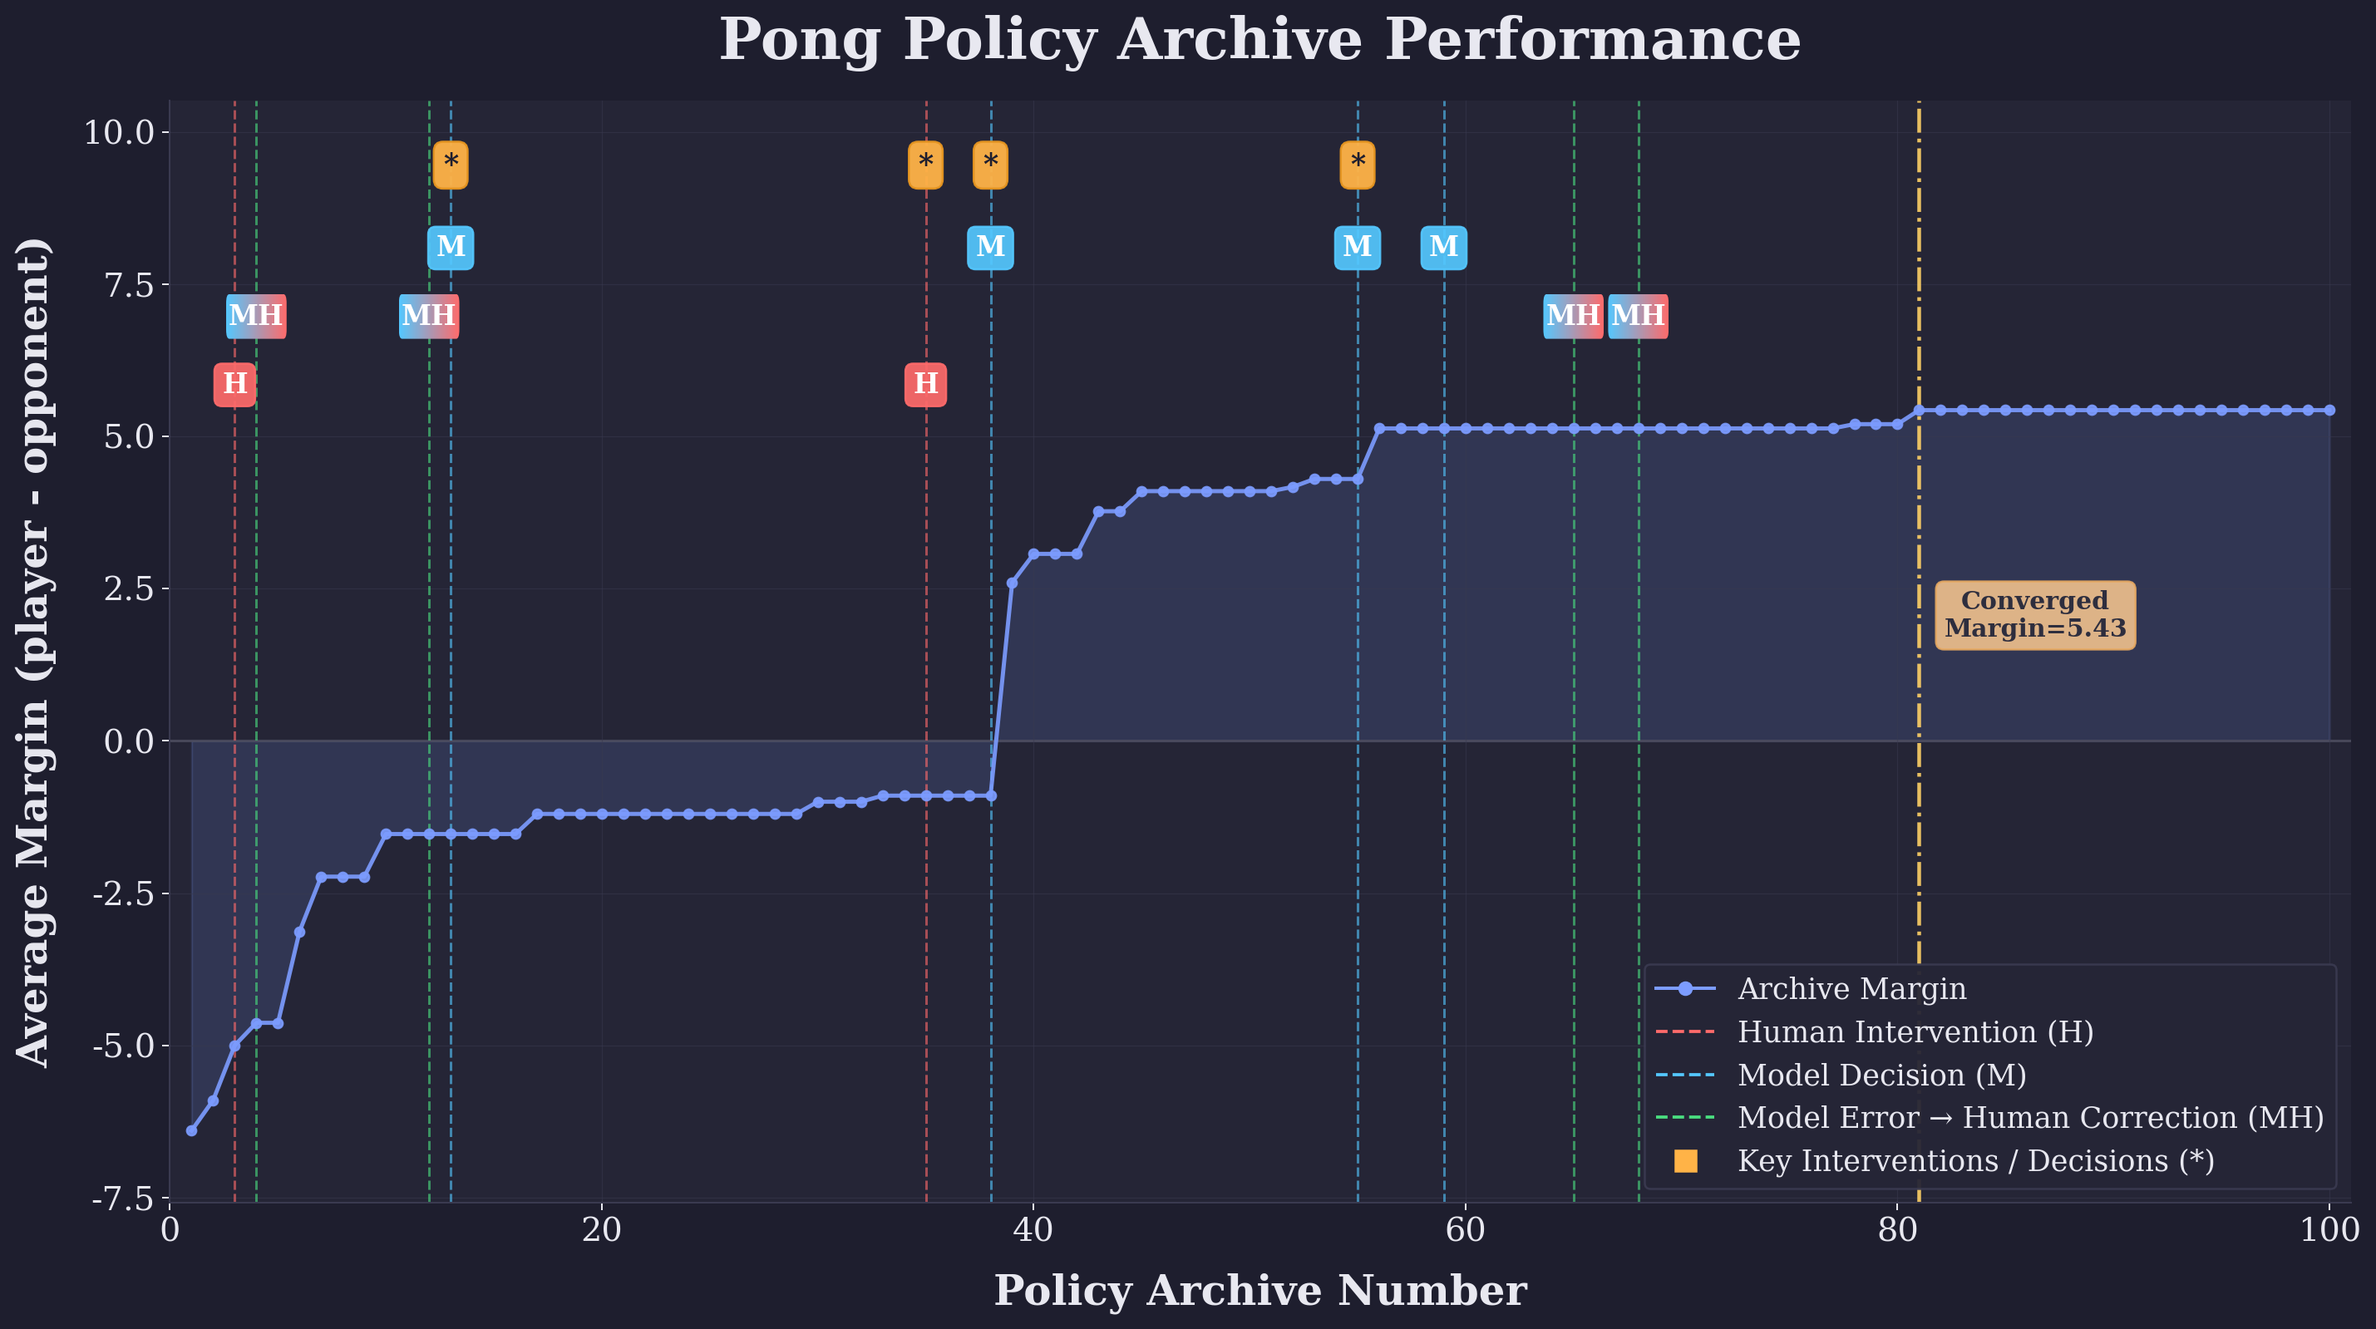
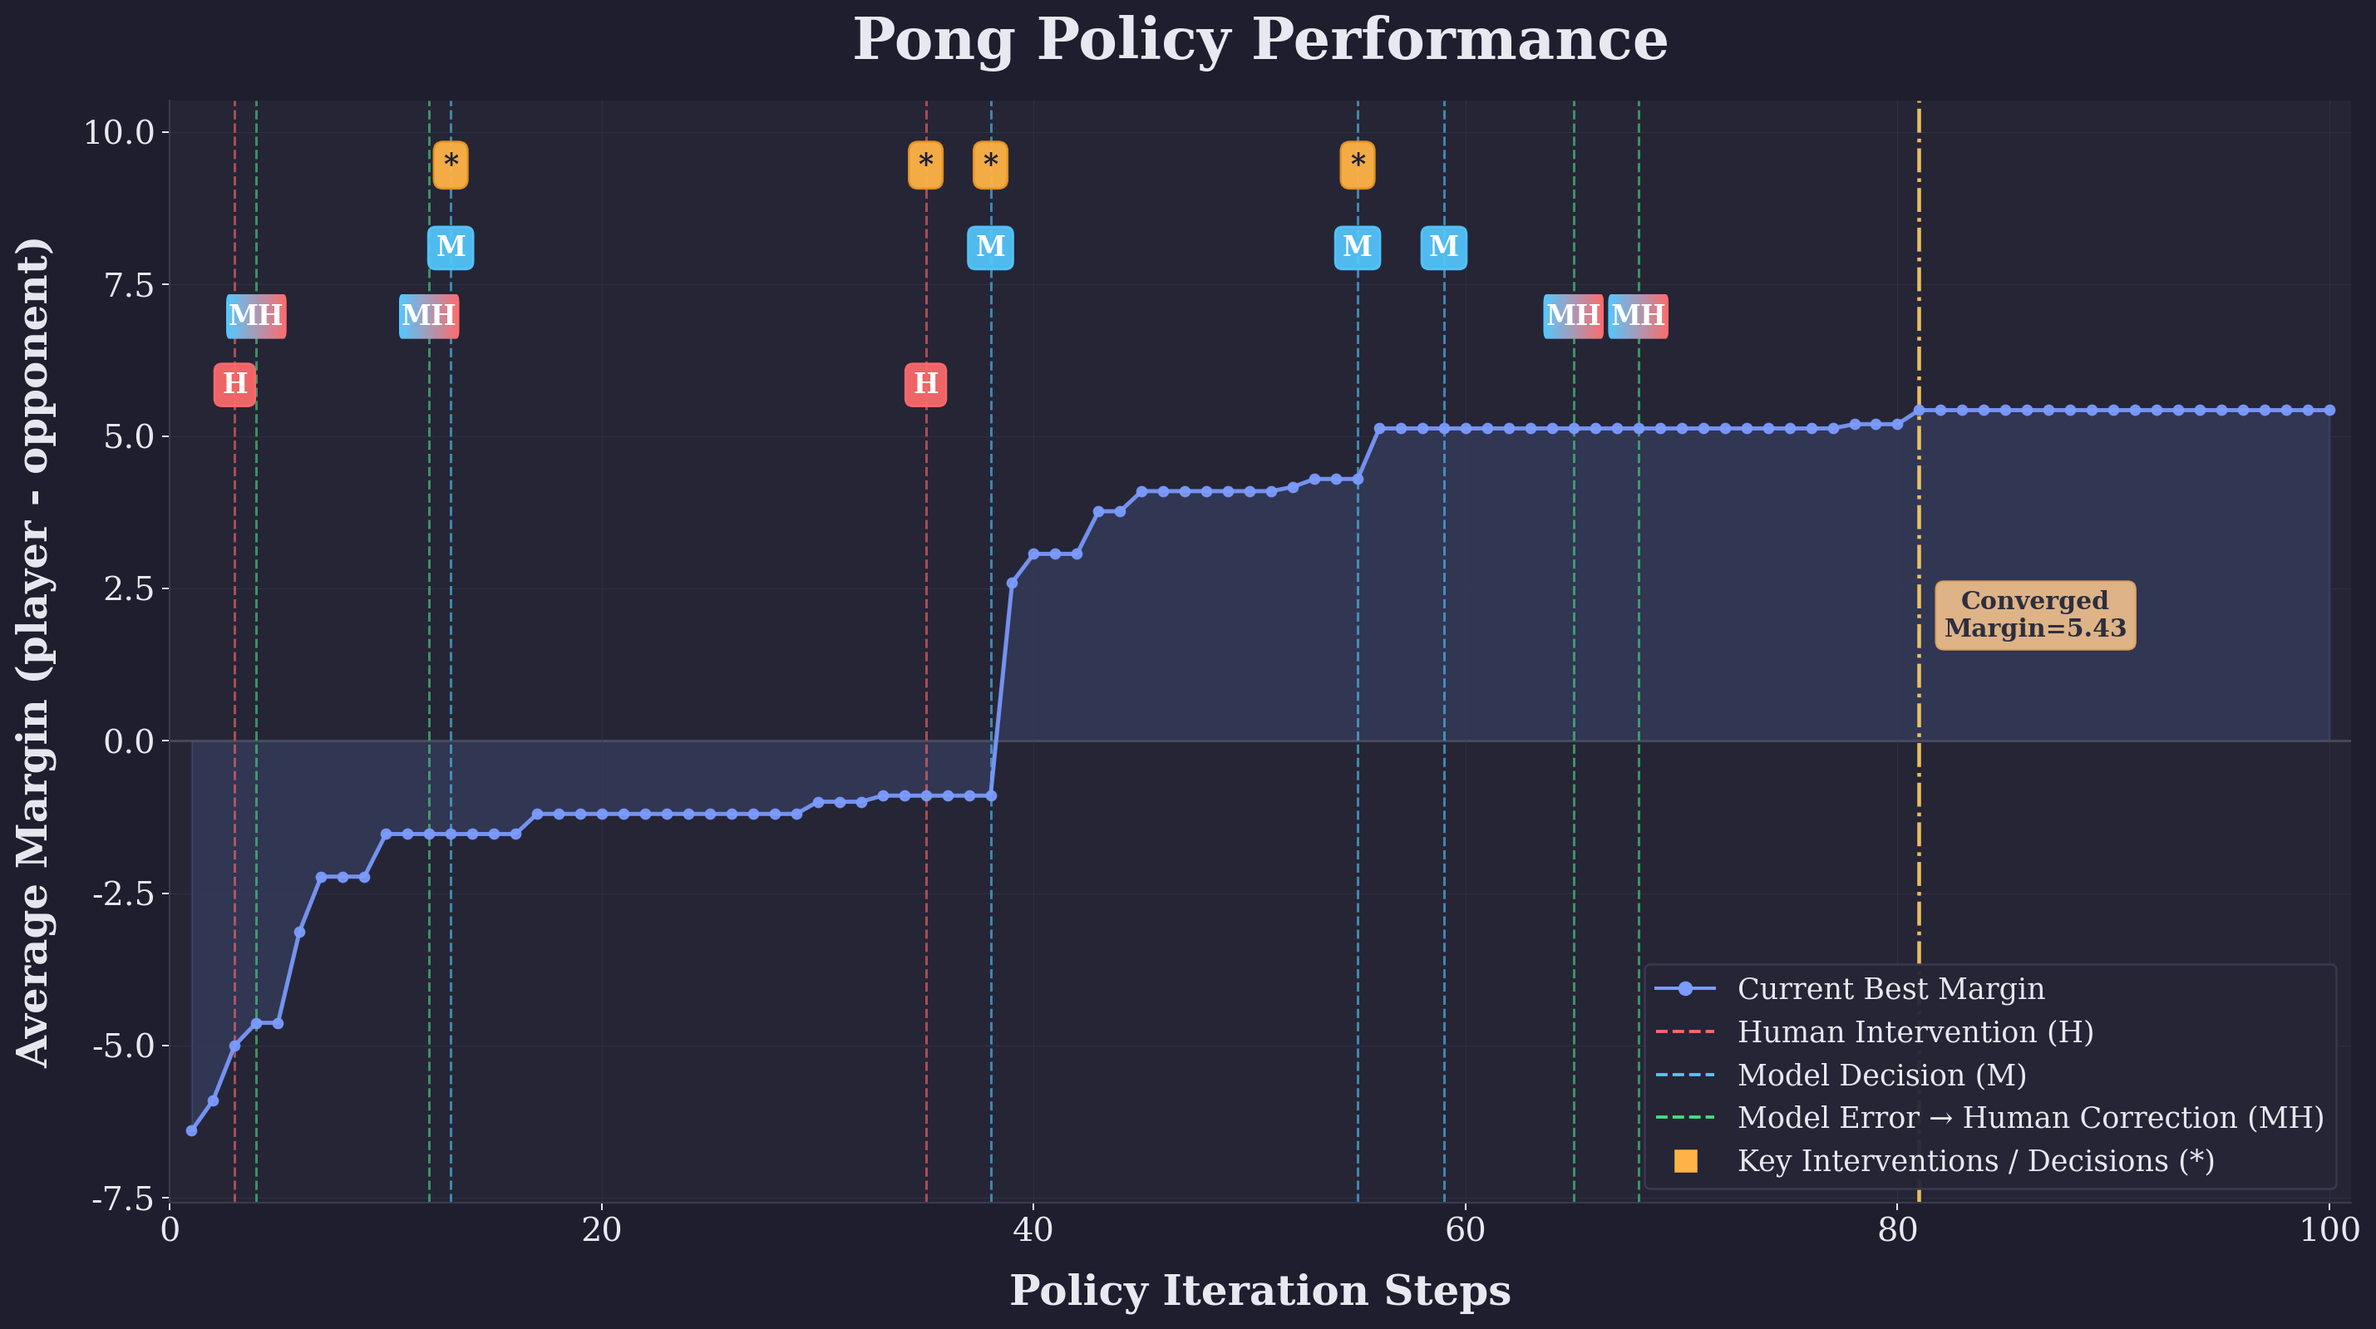
modify expressions

Changed region(s): [[0.2803, 0.0, 0.7474, 0.0613], [0.4048, 0.95, 0.654, 0.9806], [0.7162, 0.7355, 0.8719, 0.7661]]

diff --git a/plot_policy_archive.py b/plot_policy_archive.py
@@ -234,7 +234,7 @@ def write_plot(rows, output_png, events):
         markeredgecolor=curve_color,
         markerfacecolor=curve_color,
         alpha=0.9,
-        label="Archive Margin",
+        label="Current Best Margin",
         zorder=3,
     )
 
@@ -376,7 +376,7 @@ def write_plot(rows, output_png, events):
     ax.set_ylim(y_min - y_span * 0.10, y_max + y_span * 0.43)
 
     ax.set_xlabel(
-        "Policy Archive Number",
+        "Policy Iteration Steps",
         labelpad=12,
         fontweight="bold",
     )
@@ -386,7 +386,7 @@ def write_plot(rows, output_png, events):
         fontweight="bold",
     )
     ax.set_title(
-        "Pong Policy Archive Performance",
+        "Pong Policy Performance",
         pad=20,
         fontweight="bold",
     )
@@ -404,7 +404,7 @@ def write_plot(rows, output_png, events):
             marker="o",
             markersize=6,
             linewidth=1.6,
-            label="Archive Margin",
+            label="Current Best Margin",
         ),
         Line2D(
             [0],

diff --git a/docs/REPORT.md b/docs/REPORT.md
@@ -1,41 +1,41 @@
-# Heuristic Learning
+# Heuristic Learning Report
 
-English | [中文](REPORT_zh.md)
+[English](REPORT.md) | Chinese
 
 ## Optimization History
-
-- Turn 0: I asked the model to run about 3 iterations to check whether it could proceed normally.
-- Turn 3: I requested another 3 iterations to further test whether the model could keep working normally.
-- Turn 4: The model became blocked during optimization and wanted to run a large parameter search. I stopped it and asked for substantive changes instead of only parameter changes.
-- Turn 12: After repeated failures, the model started to stop early on its own. I restarted it and required it to keep iterating unless I manually ended the process.
-- Turn 13: The model automatically recognized the situation and entered `/goal` mode.
-- Turn 35: Because multiple rounds were stuck around -1.00 to -0.90, I asked the model to search in much broader directions. This pivot was successful.
-- Turn 38: The model identified missing paddle-velocity information by itself and added it to the state. This later produced a large improvement.
-- Turn 55: The model noticed that only one game was still being lost, expanded the analysis scope by itself, and first inspected the final failure before deciding whether to keep adjusting.
-- Turn 59: The model read all game traces, reasoned about the true failure points, and found that they were hard to summarize as one simple pattern.
-- Turn 65: The model tried to handle special game indices, which was similar to hacking and unreasonable, so I rejected it. At the same time, it was drifting back toward parameter tuning, which seems to happen near context-length pressure.
-- Turn 68: The model kept trying to modify the state to seek more information, but that information was not useful, so I stopped it.
+- **Turn 0** I asked the model to perform 3 improvements to verify whether it could iterate normally.
+- **Turn 3** I again asked the model to perform 3 additional improvements to further test its iterative capability.
+- **Turn 4** The model's optimization became blocked, and it attempted to conduct a large-scale parameter search on its own; I stopped this behavior and asked the model to make substantive changes instead of merely staying at parameter tuning.
+- **Turn 12** Due to prolonged failure in self-optimization, the model exhibited early stopping; I restarted the model and required it to continue iterating until I manually terminated it.
+- **Turn 13** The model automatically identified and started `/goal` mode.
+- **Turn 35** Since performance over multiple turns had long hovered around -1.00 to -0.90, I asked the model to conduct a large-scale direction search; this shift achieved significant results.
+- **Turn 38** The model independently identified that racket speed information was missing from the state and proactively supplemented this information; this addition produced significant effects in subsequent searches.
+- **Turn 55** After discovering that only one game remained failed, the model automatically expanded the analysis scope, first examining the failure near the end of that game before deciding whether to continue adjusting.
+- **Turn 59** The model independently read the contents of all games, analyzed the true points of loss, and found that these loss points were difficult to summarize as a single type of pattern.
+- **Turn 65** The model attempted targeted handling for special games, but this approach resembled a kind of hacking and was unreasonable, so I rejected it; at the same time, the model gradually entered parameter-tuning mode again, a phenomenon that seemed more likely to occur when approaching the context length limit.
+- **Turn 68** The model continued attempting to modify new state information to obtain more information, but this information was actually unhelpful, so I stopped it.
 
 ![policy_archive_performance.png](../results/policy_archive_performance.png)
 
-## Decision Process
+## Decision-Making Process
+1. Human manually guided decisions that were effective, a total of **1** time:
+   - Required the model to search more directions.
 
-1. Human-guided decisions that worked: 1
-   - Asked the model to search in more directions.
-2. Reasonable and effective model-adaptive decisions: 3
-   - Automatically entered `/goal` mode.
-   - Identified missing paddle-velocity information in the state.
-   - Expanded the analysis scope by itself.
-3. Incorrect model-adaptive decisions: 4
-   - Tried to run a large parameter search.
-   - Stopped early by itself.
-   - Tried to handle special game indices.
-   - Kept trying to modify the state.
+2. Reasonable and effective model decisions, a total of **3** times:
+   - Automatically identified and started `/goal` mode;
+   - Independently identified that racket speed information was missing from the state;
+   - Independently expanded the analysis scope.
+
+3. Incorrect model decisions that were later manually corrected by the human, a total of **4** times:
+   - Attempted to conduct a large-scale parameter search on its own;
+   - Exhibited early stopping on its own;
+   - Attempted targeted handling for special games;
+   - Continued attempting to modify new state information.
 
 ## Lessons
+- **Time Audit**: The model lacks time-auditing capability and may start tasks that take too long to execute, such as large-scale parameter searches.
+- **Fixed Mindset**: When the context becomes too long, the model can easily fall into a local fixed mindset, causing the strategy to converge prematurely and eventually degrade into parameter tuning, making it difficult to continue effective search.
+- **Task Drift**: After clearing the context, the model's understanding of task boundaries may drift, resulting in some hacking strategies that misunderstand feasible solutions.
 
-- **Time audit**: The model does not perform time auditing. It may start tasks that take a very long time, such as large parameter searches.
-- **Fixed thinking**: When the context becomes long, the model often gets trapped in a local mindset. The strategy converges too early and eventually degenerates into parameter tuning, making effective search difficult.
-- **Task drift**: When context is cleared, the model can drift in its understanding of the task boundary, which can lead to hacking-style strategies based on incorrect assumptions about feasible solutions.
-
-Total time: **5h**
+## Insights
+- **Joint Optimization**: In the process of optimizing the target strategy, the model's behavior is not fixed; it may actively adjust and optimize its own optimization process by self-setting goals, supplementing missing information, expanding the analysis scope, and so on.

diff --git a/docs/REPORT_zh.md b/docs/REPORT_zh.md
@@ -1,39 +1,41 @@
-# 启发式学习
+# 启发式学习报告
 
 [English](REPORT.md) | 中文
 
 ## 优化历史
-- Trun 0 我要求模型做大概 3 次迭代，以检验模型是否能正常进行。
-- Turn 3 我要求了额外的 3 次迭代，以进一步测试模型是否能正常进行。
-- Trun 4 模型优化受阻，模型想要自己尝试做大量的参数搜索，被我制止，要求模型做出实质性的改动，而不仅仅是参数的改动。
-- Turn 12 模型由于长期自己优化失败，自己出现了早停止现象，被我重新启动要求必须做继续迭代，除非我手动结束。
-- Turn 13 模型自动识别并启动 `/goal` 模式。
-- Turn 35 由于多个轮次都在 -1.00 到 -0.90 左右徘徊，我要求模型做大规模的转向搜索，这个转向很成功。
-- Turn 38 模型自己识别到了拍速信息的缺失，并自己补充了信息，这一信息在之后的搜索中取得很大效果。
-- Turn 55 模型自己发现只剩一局输，自动扩大分析的范围，先看这局的末端失败，再决定是否继续调整。
-- Turn 59 模型自己读取了所有的局数内容，思考真正的失分点并发现很难归纳为同一类模式。
-- Turn 65 模型尝试对特殊局数做处理，但这类似某种 hacking，并不合理所以被我拒绝，同时又开始渐入调参模式了，似乎是接近上下问长度的时候都会。
-- Turn 68 模型一直想要改动新的state以寻求更多的信息，但这些信息其实无用，被我制止了。
+- **Turn 0** 我要求模型进行 3 次提升，以验证模型是否能够正常迭代。
+- **Turn 3** 我又要求模型额外进行 3 次提升，以进一步测试其迭代能力。
+- **Turn 4** 模型优化受阻，并尝试自行进行大量参数搜索；我制止了这一行为，并要求模型做出实质性改动，而不是仅停留在参数调整上。
+- **Turn 12** 由于长期自我优化失败，模型出现早停现象；我重新启动模型，并要求其必须持续迭代直到我手动终止。
+- **Turn 13** 模型自动识别并启动 `/goal` 模式。
+- **Turn 35** 由于多个轮次的表现长期徘徊在 -1.00 到 -0.90 左右，我要求模型进行大规模方向搜索；这次转向取得了显著效果。
+- **Turn 38** 模型自行识别出 state 中缺失拍速信息，并主动补充该信息；这一补充在后续搜索中产生了显著效果。
+- **Turn 55** 模型发现只剩一局失败后，自动扩大分析范围，先查看该局末端的失败情况，再决定是否继续调整。
+- **Turn 59** 模型自行读取所有局数的内容，分析真正的失分点，并发现这些失分点很难归纳为同一类模式。
+- **Turn 65** 模型尝试对特殊局数进行针对性处理，但这一做法类似某种 hacking，并不合理，因此被我拒绝；同时模型又逐渐进入调参模式，似乎在接近上下文长度限制时更容易出现这种现象。
+- **Turn 68** 模型持续尝试修改新的 state 以获取更多信息，但这些信息实际上并无帮助，因此被我制止。
 
 ![policy_archive_performance.png](../results/policy_archive_performance.png)
 
 ## 决策过程
-1. 人类手动并取得效果的引导决策，共 1 次
-   - 要求模型搜索更多的方向
-2. 合理并取得效果的模型自适应引导决策，共 3 次
-   - 自动识别并启动 `/goal` 模式
-   - 自己识别到了state中拍速信息的缺失
-   - 自己扩大分析的范围
-3. 错误的模型自适应引导决策，共 4 次
-   - 想要自己尝试做大量的参数搜索
-   - 自己出现了早停
-   - 模型尝试对特殊局数做处理 
-   - 模型一直想要改动新的state
+1. 人类手动引导且取得效果的决策，共 **1** 次：
+   - 要求模型搜索更多方向。
+
+2. 合理且取得效果的模型决策，共 **3** 次：
+   - 自动识别并启动 `/goal` 模式；
+   - 自行识别出 state 中缺失拍速信息；
+   - 自行扩大分析范围。
+
+3. 错误的模型决策，后被人类手动修正，共 **4** 次：
+   - 试图自行进行大量参数搜索；
+   - 自行出现早停；
+   - 尝试对特殊局数进行针对性处理；
+   - 持续尝试修改新的 state。
+
+## 教训
+- **时间审计**：模型缺乏时间审计能力，可能会启动执行时间过长的任务，例如大规模参数搜索。
+- **思维定式**：当上下文过长时，模型容易陷入局部思维定式，导致策略过早收敛，最终退化为调参，难以继续进行有效搜索。
+- **任务漂移**：在清空上下文后，模型对任务边界的理解可能出现漂移，从而产生一些误解可行方案的 hacking 策略。
 
 ## 启发
-- **时间审计**：模型不会做时间审计，会开启超长执行时间的任务，比如做大规模的参数搜索。
-- **思维定式**：模型在上下文过长时，经常陷入局部的思维定式，策略过早收敛，到最后演变成调参，无法进行有效的搜索。
-- **任务漂移**：模型在清空上下文时，在任务的界定上会出现一定的漂移，导致一些对可行方案理解错误的Hacking策略产生。
-
-
-总用时： **5h**
+- **共同优化**：在优化目标策略的过程中，模型的行为并非固定不变；它可能通过自我设定目标、补充缺失信息、扩大分析范围等方式，主动调整并优化自身的优化过程。

diff --git a/README.md b/README.md
@@ -4,7 +4,7 @@ English | [中文](README_zh.md)
 
 This project documents a **heuristic learning** policy optimization experiment on Atari Pong. The idea is inspired by Jiayi Weng's blog post [Learning Beyond Gradients](https://trinkle23897.github.io/learning-beyond-gradients/).
 
-The practical result: after 100 rounds of heuristic optimization with Codex, the final policy wins **all** 30 matches under different seed settings, improving the average score margin from -6.40 to 5.43.
+- Main Result: after 100 rounds of heuristic optimization with Codex, the final policy wins **all** 30 matches under different seed settings, improving the average score margin from -6.40 to 5.43.
 
 ## Project Contents
 

diff --git a/README_zh.md b/README_zh.md
@@ -3,7 +3,7 @@
 [English](README.md) | 中文
 
 本项目记录了一次基于 Atari Pong 的**启发式学习**策略优化实验，这一思想来自翁家翌的博客[《Learning Beyond Gradients》](https://trinkle23897.github.io/learning-beyond-gradients/)。
-- 直观效果：使用 Codex 进行启发式优化 100 轮后，在在不同种子设定下的 30 局比赛中实现**全胜**，平均分差从 -6.40 提升至 5.43。
+- 主要结果：使用 Codex 进行启发式优化 100 轮后，在在不同种子设定下的 30 局比赛中实现**全胜**，平均分差从 -6.40 提升至 5.43。
 
 ## 项目内容
 

diff --git a/docs/POLICY.md b/docs/POLICY.md
@@ -1,4 +1,4 @@
-# Pong RAM Policy Report
+# Policy
 
 English | [中文](POLICY_zh.md)
 

diff --git a/docs/POLICY_zh.md b/docs/POLICY_zh.md
@@ -1,4 +1,4 @@
-# Pong RAM 策略报告
+# 策略
 
 [English](POLICY.md) | 中文
 
